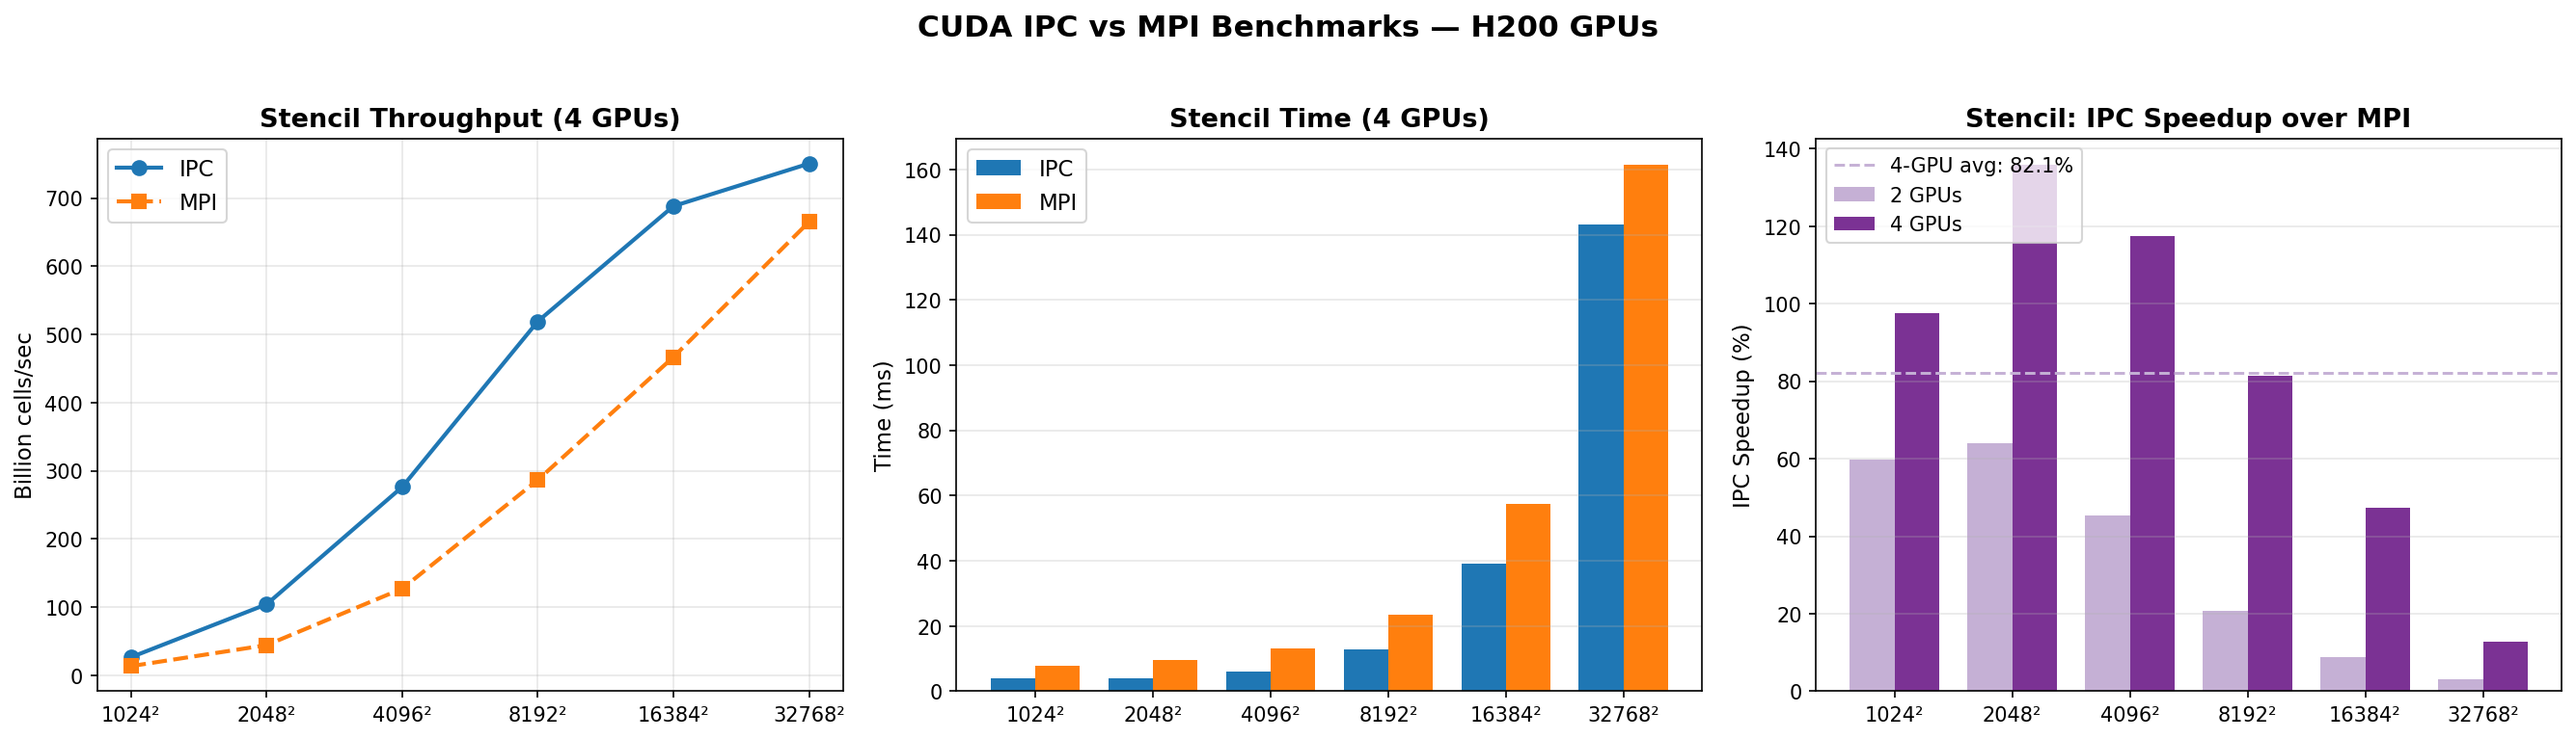
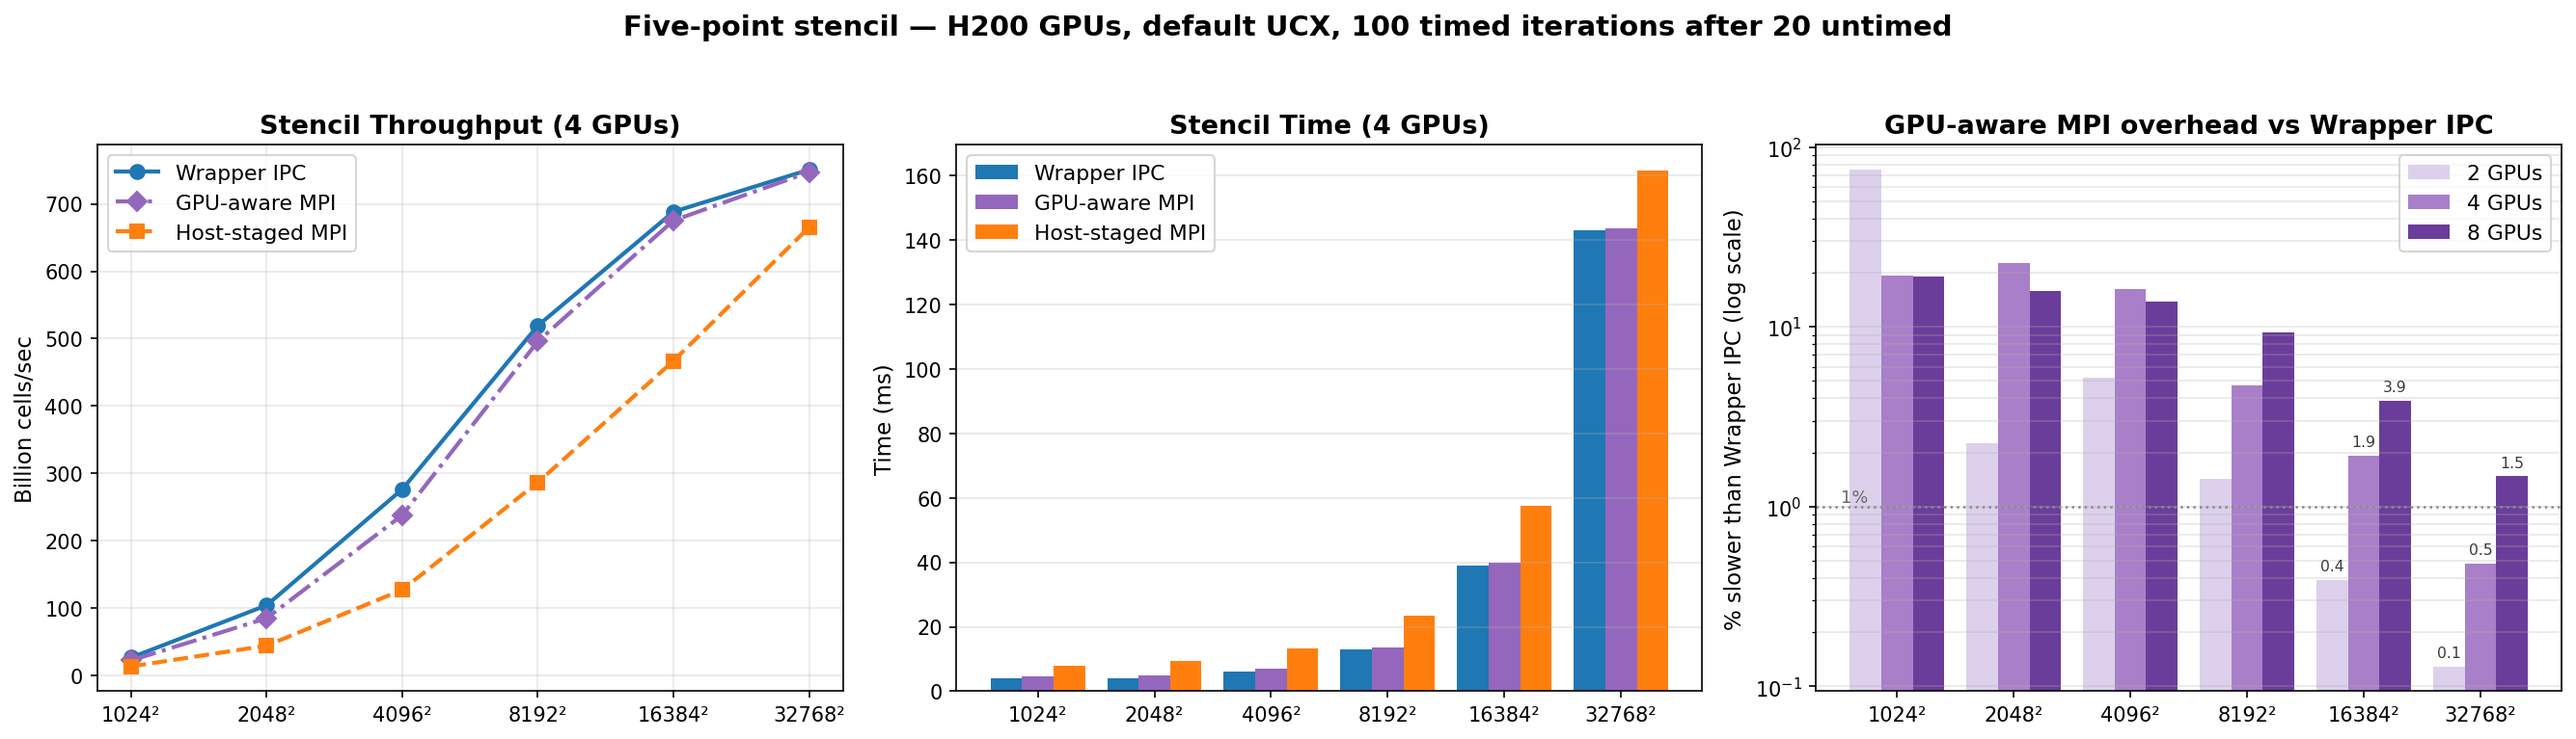
Stencil figure: three explicitly-labelled modes per review feedback
Replaces the two-series "IPC"/"MPI" figure with three named series --
"Wrapper IPC", "GPU-aware MPI", "Host-staged MPI". The two-series version
omitted GPU-aware MPI entirely, which means it omitted the parity result that
is now the central stencil finding; a reader would have seen only
IPC-vs-host-staging, i.e. the least stable of the three measurements.

Panels 1 and 2 (4 GPUs) now show all three modes. GPU-aware MPI uses the same
purple as the corresponding series in the transpose figure so the two read
consistently.

Panel 3 changed purpose. It previously showed IPC speedup over host-staged MPI,
which is the number most sensitive to configuration (3x spread across UCX
settings and node types). It now shows how much slower GPU-aware MPI is than
wrapper IPC, at 2/4/8 ranks -- the parity claim, and a stable measurement.
Log y-axis because the values span 0.1%-75%: small grids are latency-bound and
noisy, large grids converge to parity. Nothing is clipped; the 2-rank 1024²
outlier at +74.8% is plotted as measured. Values are annotated for 16384² and
32768², the two grids the paper cites.

Numbers (GPU-aware slower than wrapper IPC, from job 59853):
  2 ranks: 74.8 / 2.3 / 5.2 / 1.4 / 0.4 / 0.1 %
  4 ranks: 19.2 / 22.6 / 16.1 / 4.7 / 1.9 / 0.5 %
  8 ranks: 19.0 / 15.8 / 13.8 / 9.3 / 3.9 / 1.5 %
The 4-rank 16384² and 32768² figures (1.9% and 0.5%) are the ones quoted in the
proposed abstract wording.
[…]

diff --git a/plots/make_stencil_plots.py b/plots/make_stencil_plots.py
@@ -1,14 +1,17 @@
 #!/usr/bin/env python3
-"""Stencil README/paper chart. Regenerates plots/stencil_mpi_ipc.png.
+"""Stencil figure for the paper. Writes plots/stencil_mpi_ipc.png.
 
 Data source: job 59853 (h200x8-04, 2026-08-03) -- the consolidated re-baseline.
 UCX defaults (UCX_TLS deliberately unset), STENCIL_WARMUP=20, uniform
--O3 -gencode arch=compute_90,code=sm_90, ranks 2/4/8 from one node.
-100 timed iterations. Supersedes the Apr-2026 version of this figure, which
-predated the re-baseline; see results/stencil_results.txt.
+-O3 -gencode arch=compute_90,code=sm_90, 100 timed iterations, rank counts
+2/4/8 all from the same node. See results/stencil_results.txt, section
+"RE-BASELINE (authoritative)".
 
-Layout and palette deliberately match the previous version of this figure so
-it drops into the same slot -- only the numbers changed.
+Three explicitly-named series per review feedback -- "Wrapper IPC",
+"GPU-aware MPI", "Host-staged MPI" -- replacing the earlier two-series
+"IPC"/"MPI" version, which omitted the parity result that is now the central
+stencil finding. GPU-aware MPI is drawn in the same purple used for that series
+in the transpose figure, so the two figures read consistently.
 """
 import matplotlib
 matplotlib.use("Agg")
@@ -18,62 +21,83 @@ import numpy as np
 SIZES = ["1024²", "2048²", "4096²", "8192²", "16384²", "32768²"]
 x = np.arange(len(SIZES))
 
-# ---- job 59853, time in ms / throughput in Gcell/s ------------------------
-# 4 ranks
-IPC4_T  = [3.95, 4.02, 6.07, 12.92, 39.00, 143.04]
-MPI4_T  = [7.80, 9.48, 13.20, 23.42, 57.50, 161.44]
-IPC4_G  = [26.57, 104.23, 276.36, 519.26, 688.26, 750.68]
-MPI4_G  = [13.45, 44.26, 127.12, 286.58, 466.86, 665.12]
-# 2 ranks (speedup panel only)
-IPC2_T  = [2.26, 3.10, 6.54, 19.66, 71.52, 278.78]
-MPI2_T  = [3.61, 5.08, 9.50, 23.72, 77.74, 287.43]
+# ---- job 59853: time (ms) and throughput (Gcell/s), 100 timed iterations ----
+T = {  # ranks -> mode -> times
+    2: {"ipc": [2.26, 3.10, 6.54, 19.66, 71.52, 278.78],
+        "gpu": [3.95, 3.17, 6.88, 19.94, 71.80, 279.14],
+        "stg": [3.61, 5.08, 9.50, 23.72, 77.74, 287.43]},
+    4: {"ipc": [3.95, 4.02, 6.07, 12.92, 39.00, 143.04],
+        "gpu": [4.71, 4.93, 7.05, 13.53, 39.75, 143.73],
+        "stg": [7.80, 9.48, 13.20, 23.42, 57.50, 161.44]},
+    8: {"ipc": [4.10, 4.42, 5.29, 8.97, 22.13, 74.59],
+        "gpu": [4.88, 5.12, 6.02, 9.80, 22.99, 75.69],
+        "stg": [8.03, 9.47, 12.12, 19.72, 41.33, 95.08]},
+}
+G4 = {"ipc": [26.57, 104.23, 276.36, 519.26, 688.26, 750.68],
+      "gpu": [22.29, 85.07, 237.95, 495.88, 675.25, 747.08],
+      "stg": [13.45, 44.26, 127.12, 286.58, 466.86, 665.12]}
 
-BLUE, ORANGE = "#1f77b4", "#ff7f0e"
-PURPLE_D, PURPLE_L = "#7b3294", "#c5b0d5"
-
-sp4 = [(m / i - 1.0) * 100.0 for i, m in zip(IPC4_T, MPI4_T)]
-sp2 = [(m / i - 1.0) * 100.0 for i, m in zip(IPC2_T, MPI2_T)]
-avg4 = float(np.mean(sp4))
+IPC_C, GPU_C, STG_C = "#1f77b4", "#9467bd", "#ff7f0e"
+LBL = {"ipc": "Wrapper IPC", "gpu": "GPU-aware MPI", "stg": "Host-staged MPI"}
+RANK_C = {2: "#dcd0ec", 4: "#a97fc9", 8: "#6a3d9a"}
 
 fig, axes = plt.subplots(1, 3, figsize=(17.9, 5.12), dpi=150)
-fig.suptitle("CUDA IPC vs MPI Benchmarks — H200 GPUs",
-             fontsize=15, fontweight="bold", y=0.99)
+fig.suptitle("Five-point stencil — H200 GPUs, default UCX, 100 timed "
+             "iterations after 20 untimed",
+             fontsize=14, fontweight="bold", y=0.99)
 
 # =============== panel 1: throughput ===============
 ax = axes[0]
-ax.plot(x, IPC4_G, "-o", color=BLUE, linewidth=2, markersize=7, label="IPC")
-ax.plot(x, MPI4_G, "--s", color=ORANGE, linewidth=2, markersize=7, label="MPI")
+ax.plot(x, G4["ipc"], "-o",  color=IPC_C, lw=2, ms=7, label=LBL["ipc"])
+ax.plot(x, G4["gpu"], "-.D", color=GPU_C, lw=2, ms=6.5, label=LBL["gpu"])
+ax.plot(x, G4["stg"], "--s", color=STG_C, lw=2, ms=7, label=LBL["stg"])
 ax.set_title("Stencil Throughput (4 GPUs)", fontsize=13, fontweight="bold")
 ax.set_ylabel("Billion cells/sec", fontsize=11)
 ax.set_xticks(x); ax.set_xticklabels(SIZES)
-ax.legend(loc="upper left", fontsize=11)
+ax.legend(loc="upper left", fontsize=10.5)
 ax.grid(True, alpha=0.3)
 
 # =============== panel 2: time ===============
 ax = axes[1]
-w = 0.38
-ax.bar(x - w/2, IPC4_T, w, color=BLUE, label="IPC")
-ax.bar(x + w/2, MPI4_T, w, color=ORANGE, label="MPI")
+w = 0.27
+ax.bar(x - w, T[4]["ipc"], w, color=IPC_C, label=LBL["ipc"])
+ax.bar(x,     T[4]["gpu"], w, color=GPU_C, label=LBL["gpu"])
+ax.bar(x + w, T[4]["stg"], w, color=STG_C, label=LBL["stg"])
 ax.set_title("Stencil Time (4 GPUs)", fontsize=13, fontweight="bold")
 ax.set_ylabel("Time (ms)", fontsize=11)
 ax.set_xticks(x); ax.set_xticklabels(SIZES)
-ax.legend(loc="upper left", fontsize=11)
+ax.legend(loc="upper left", fontsize=10.5)
 ax.grid(True, axis="y", alpha=0.3)
 
-# =============== panel 3: speedup ===============
+# =============== panel 3: parity with GPU-aware MPI ===============
+# How much slower GPU-aware MPI is than wrapper IPC. Log y because the values
+# span 0.1%-75%: small grids are latency-bound and noisy, large grids converge
+# to parity. All values are plotted -- nothing is clipped.
 ax = axes[2]
-b2 = ax.bar(x - w/2, sp2, w, color=PURPLE_L, label="2 GPUs")
-b4 = ax.bar(x + w/2, sp4, w, color=PURPLE_D, label="4 GPUs")
-avgline = ax.axhline(avg4, color=PURPLE_L, linestyle="--", linewidth=1.4)
-ax.set_title("Stencil: IPC Speedup over MPI", fontsize=13, fontweight="bold")
-ax.set_ylabel("IPC Speedup (%)", fontsize=11)
+for i, np_ in enumerate((2, 4, 8)):
+    d = [(g / p - 1.0) * 100.0 for p, g in zip(T[np_]["ipc"], T[np_]["gpu"])]
+    ax.bar(x + (i - 1) * w, d, w, color=RANK_C[np_], label=f"{np_} GPUs")
+ax.axhline(1.0, color="#8a8a8a", ls=":", lw=1.2)
+ax.text(-0.48, 1.06, "1%", fontsize=8.5, color="#6a6a6a", ha="left")
+ax.set_yscale("log")
+ax.set_title("GPU-aware MPI overhead vs Wrapper IPC",
+             fontsize=13, fontweight="bold")
+ax.set_ylabel("% slower than Wrapper IPC (log scale)", fontsize=11)
 ax.set_xticks(x); ax.set_xticklabels(SIZES)
-# explicit order: avg line, 2 GPUs, 4 GPUs -- as in the previous figure
-ax.legend([avgline, b2, b4], [f"4-GPU avg: {avg4:.1f}%", "2 GPUs", "4 GPUs"],
-          loc="upper left", fontsize=10)
-ax.grid(True, axis="y", alpha=0.3)
+ax.legend(loc="upper right", fontsize=10.5)
+ax.grid(True, axis="y", alpha=0.3, which="both")
+for i, np_ in enumerate((2, 4, 8)):     # label the two largest grids
+    d = [(g / p - 1.0) * 100.0 for p, g in zip(T[np_]["ipc"], T[np_]["gpu"])]
+    for k in (4, 5):
+        ax.text(k + (i - 1) * w, d[k] * 1.12, f"{d[k]:.1f}",
+                ha="center", fontsize=7.5, color="#3a3a3a")
 
-fig.tight_layout(rect=[0, 0, 1, 0.96])
+fig.tight_layout(rect=[0, 0, 1, 0.95])
 fig.savefig("plots/stencil_mpi_ipc.png", bbox_inches="tight")
 plt.close(fig)
-print(f"wrote plots/stencil_mpi_ipc.png  (4-GPU avg speedup {avg4:.1f}%)")
+
+for np_ in (2, 4, 8):
+    d = [(g / p - 1.0) * 100.0 for p, g in zip(T[np_]["ipc"], T[np_]["gpu"])]
+    print(f"np={np_} GPU-aware vs wrapper IPC: " +
+          ", ".join(f"{s}={v:+.1f}%" for s, v in zip(SIZES, d)))
+print("wrote plots/stencil_mpi_ipc.png")
